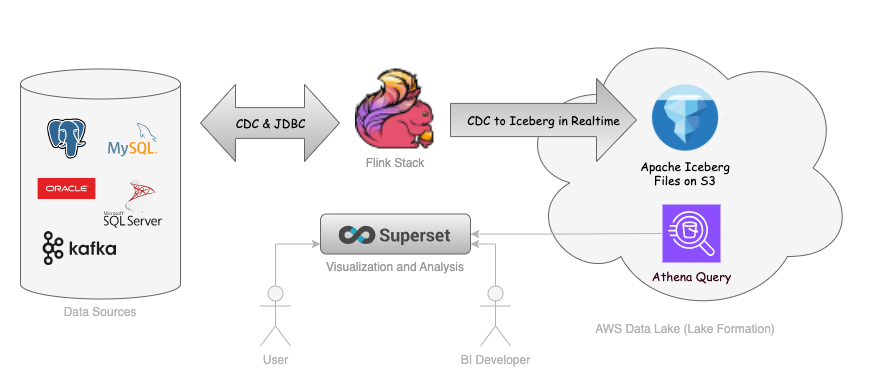
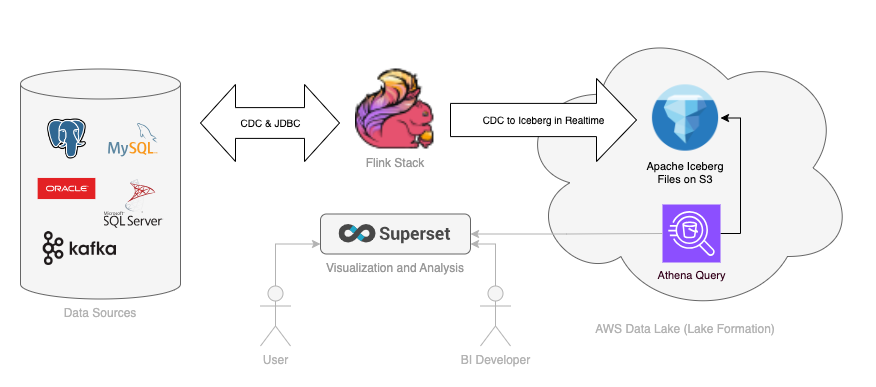
updates to readmes and diagrams

diff --git a/README.md b/README.md
@@ -64,6 +64,14 @@ See the [Streaming ETL to Iceberg](examples/streaming-etl-to-iceberg/) example t
 
 Happy flinking!
 
+## Flink Examples
+
+[streaming-etl-to-iceberg](examples/streaming-etl-to-iceberg/README.md) demonstrates the core flow of joining data between two backend systems: `MySQL ERPDB` and `PostgreSQL ShipDB`, accross three tables via `CDC`, with an auto-updating summary table stored in `MySQL OperationsDB` which is then replicated in real-time via `CDC` again to `Apache Iceberg Serde` stored in `AWS S3 Lake Formation` to be read by `AWS Athena`.
+
+[streaming-etl-java](examples/streaming-etl-java/README.md) implementes the `Flink SQL` functionality in the `streaming-etl-to-iceberg` example using `Java` and the `Flink Table API`, and packages it into a job jar for deployment.
+
+[k8s](examples/k8s/README.md) illustrates how to deploy the `Flink Kubernetes Operator` to a K8s cluster and then how to define a Job `YAML` declaration file that will deploy the `streaming-etl-java job jar` into a dedicated job flink cluster running in the Kubernetes environment.
+
 ## Flink Catalogs
 
 The folks at decodable put out a lot of good info that has helped with navigating the Apache docs, or lack therof.  This is a great primer [article](https://www.decodable.co/blog/catalogs-in-flink-sql-a-primer) on `Flink Catalogs`.
